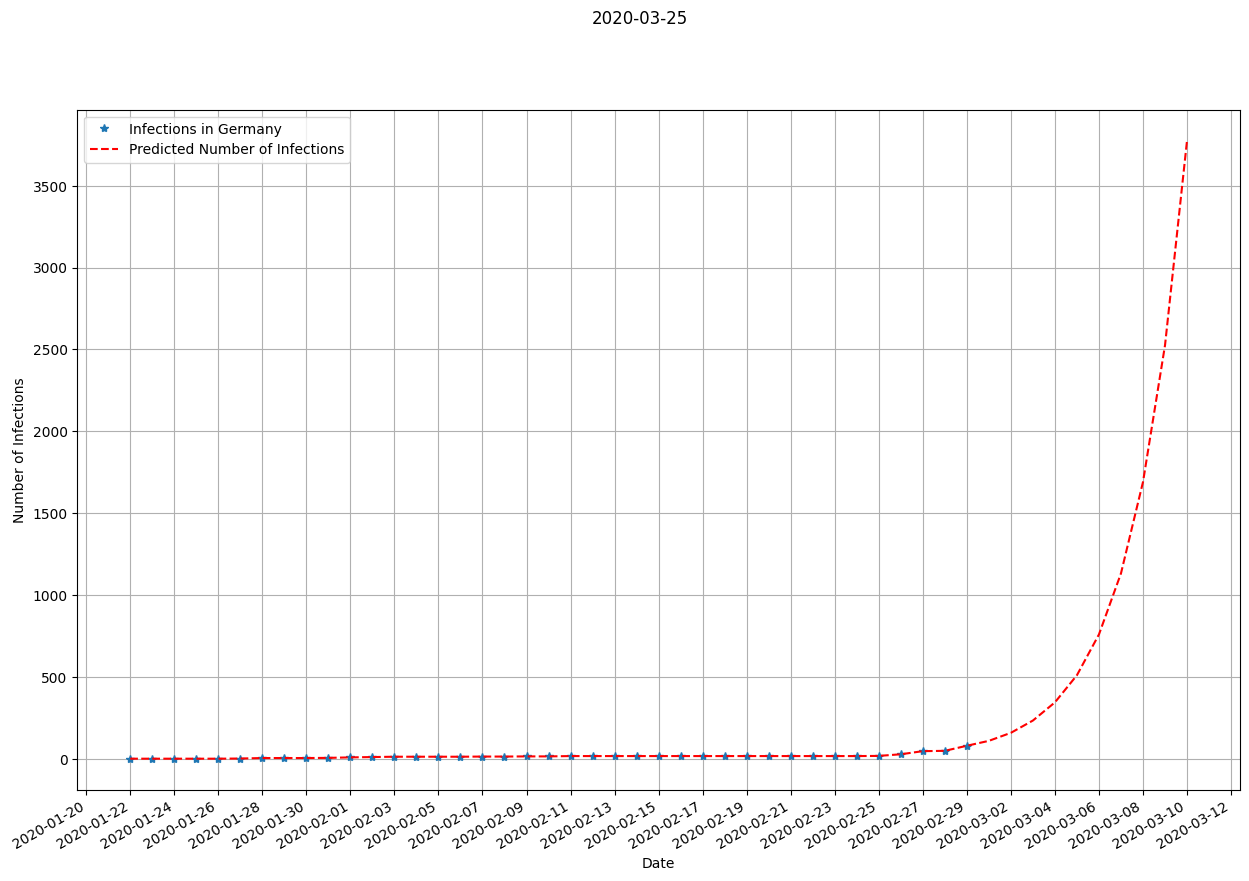
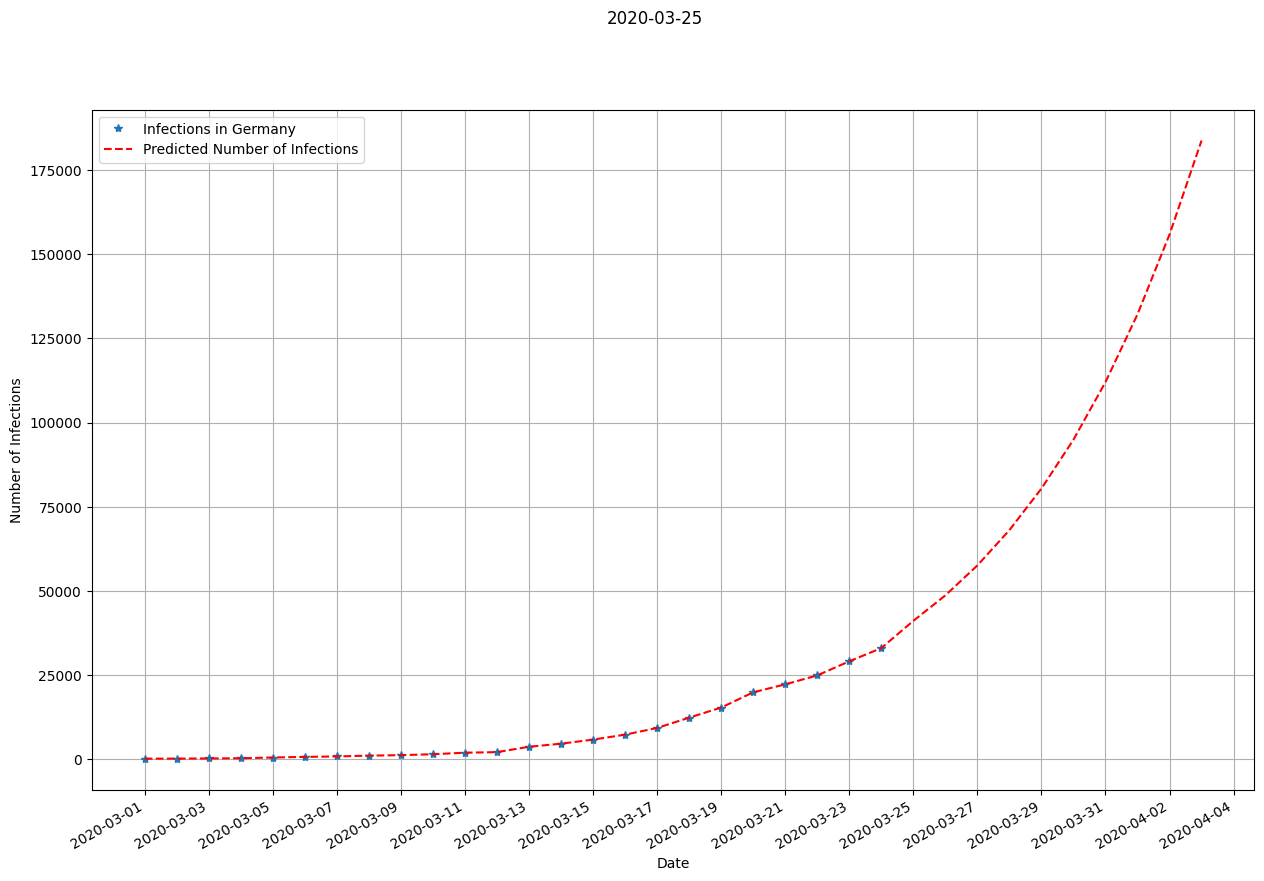
Auto Update

diff --git a/main.py b/main.py
@@ -37,7 +37,7 @@ def main():
     df = df.iloc[0]  # convert to pd.Series
 
     # start with first infections
-    df = df[df.values < 100]
+    df = df[df.values > 100]
 
     # parse to datetime
     df.index = pd.to_datetime(df.index, format='%m/%d/%y')
